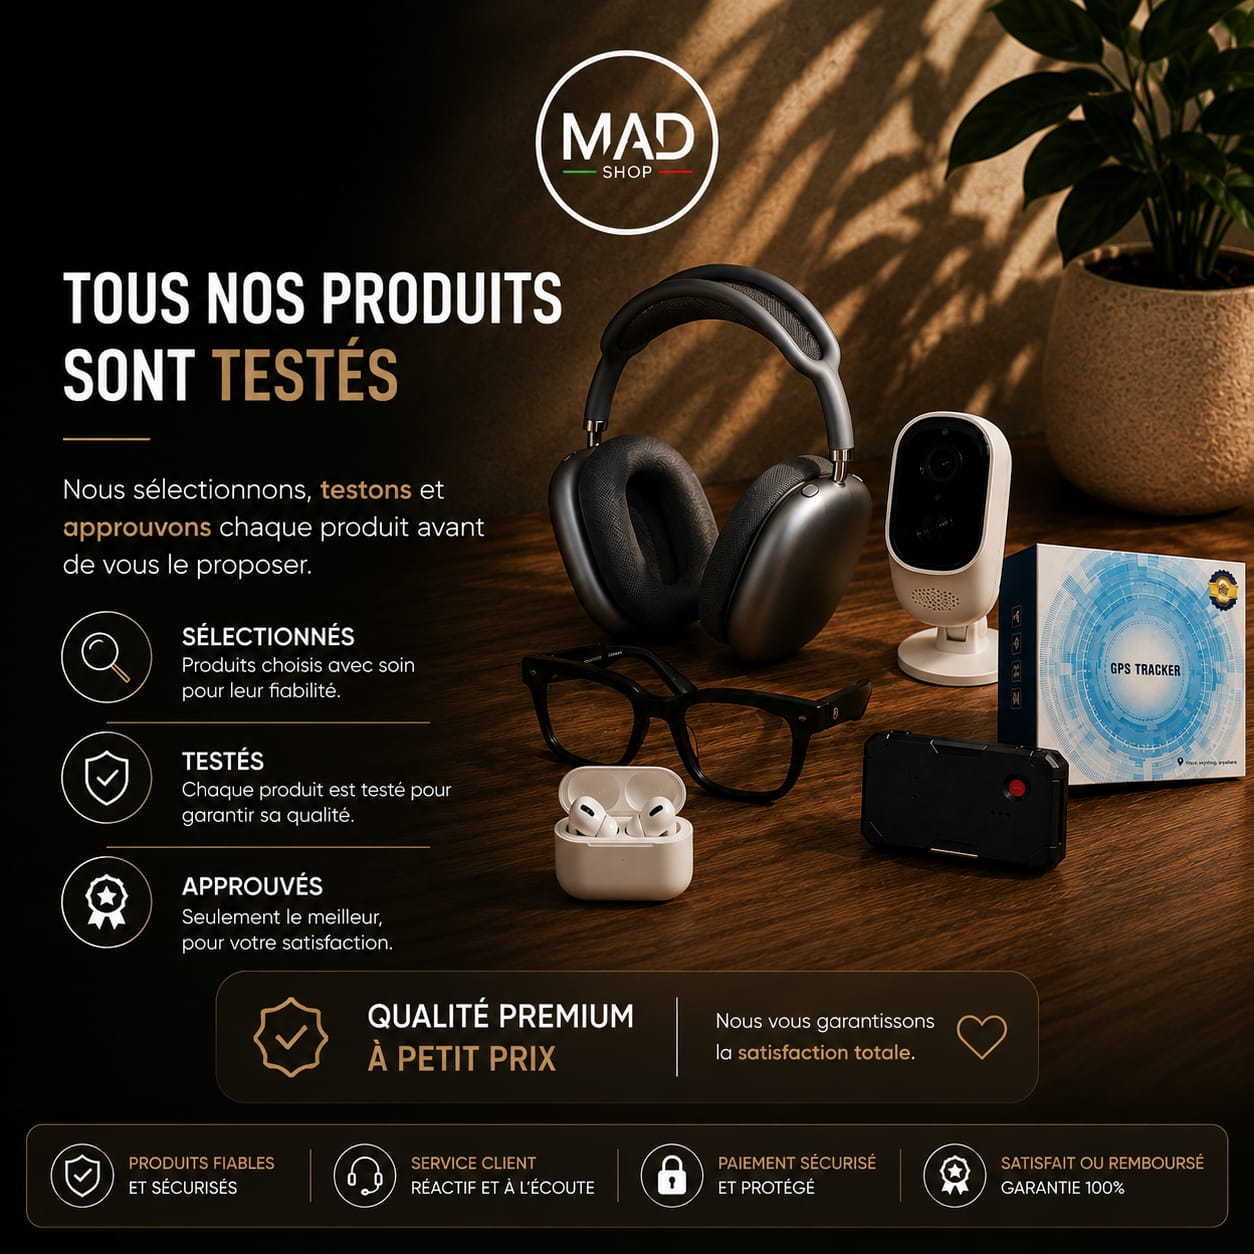
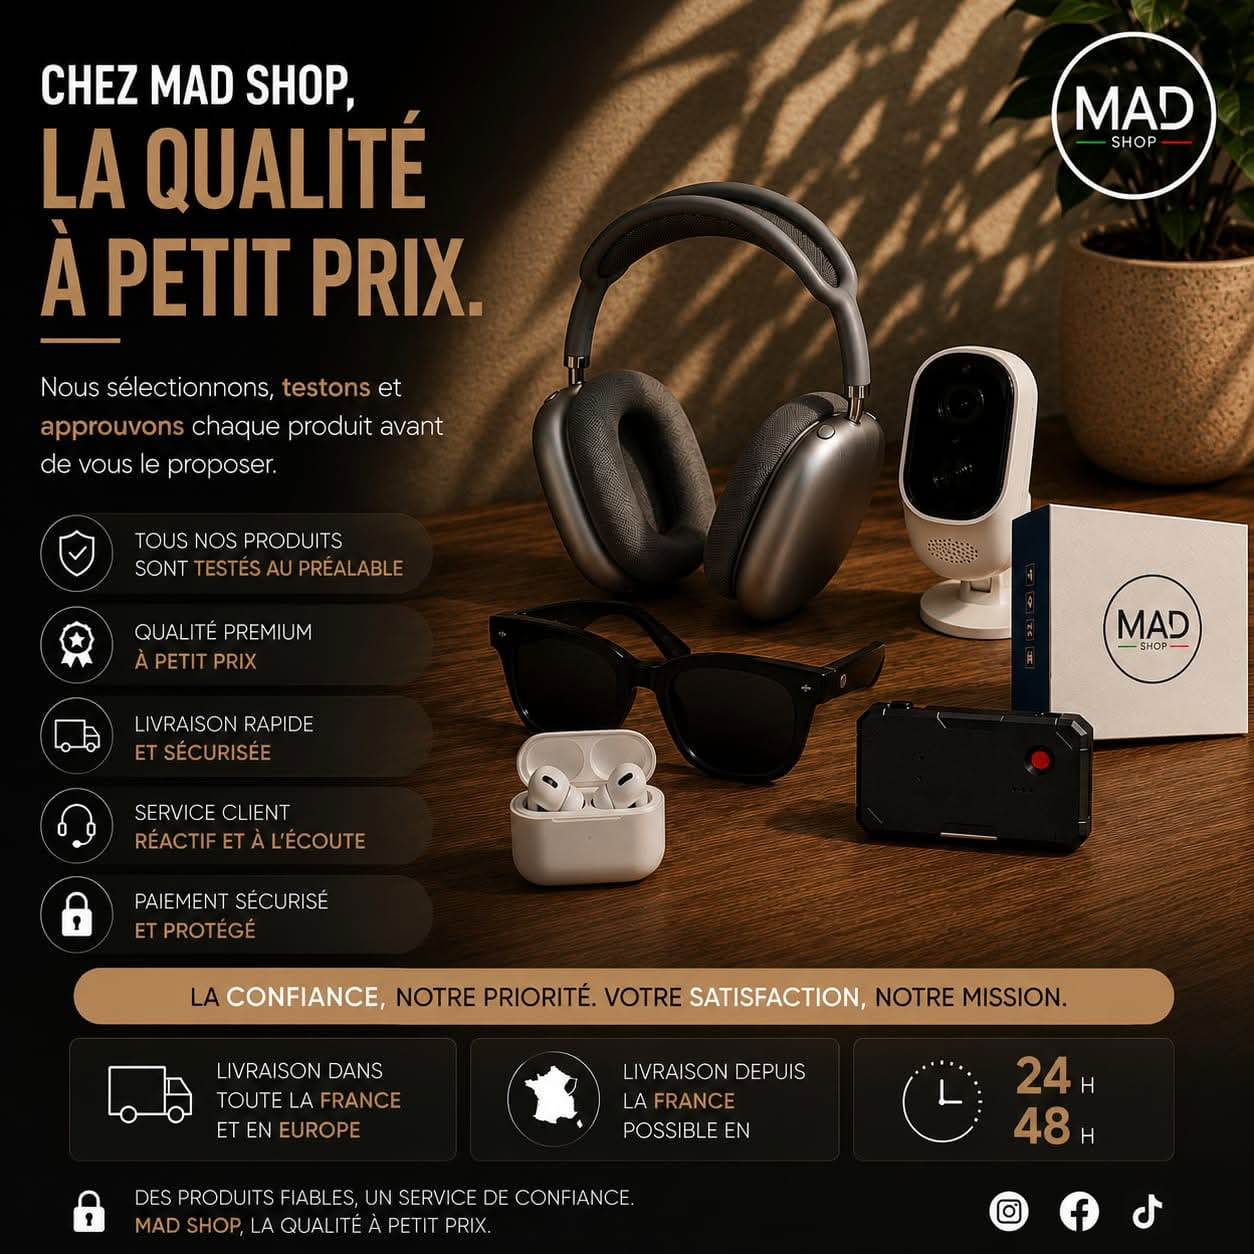
feat(hero&mac): update hero image with acceuil.jpg and fix Mac/Safari compatibility issues (regex, sessionStorage, smooth-scroll)

diff --git a/components/motion/smooth-scroll.tsx b/components/motion/smooth-scroll.tsx
@@ -9,40 +9,47 @@ import Lenis from "lenis";
  */
 export function SmoothScroll() {
   useEffect(() => {
-    if (window.matchMedia("(prefers-reduced-motion: reduce)").matches) return;
+    try {
+      if (typeof window === "undefined") return;
+      const isSafari = /^((?!chrome|android).)*safari/i.test(navigator.userAgent);
+      if (window.matchMedia("(prefers-reduced-motion: reduce)").matches) return;
 
-    const lenis = new Lenis({
-      duration: 1.1,
-      lerp: 0.1,
-      smoothWheel: true,
-      wheelMultiplier: 1,
-      touchMultiplier: 1.6,
-    });
+      const lenis = new Lenis({
+        duration: 1.1,
+        lerp: 0.1,
+        smoothWheel: !isSafari,
+        wheelMultiplier: 1,
+        touchMultiplier: 1.6,
+      });
 
-    let raf = 0;
-    const loop = (time: number) => {
-      lenis.raf(time);
+      let raf = 0;
+      const loop = (time: number) => {
+        lenis.raf(time);
+        raf = requestAnimationFrame(loop);
+      };
       raf = requestAnimationFrame(loop);
-    };
-    raf = requestAnimationFrame(loop);
 
-    // Liens d'ancrage fluides (#avis, etc.)
-    const onAnchorClick = (e: MouseEvent) => {
-      const target = (e.target as HTMLElement).closest('a[href^="#"]');
-      if (!target) return;
-      const id = target.getAttribute("href");
-      if (id && id.length > 1) {
-        e.preventDefault();
-        lenis.scrollTo(id, { offset: -100 });
-      }
-    };
-    document.addEventListener("click", onAnchorClick);
+      const onAnchorClick = (e: MouseEvent) => {
+        const target = (e.target as HTMLElement).closest('a[href^="#"]');
+        if (!target) return;
+        const id = target.getAttribute("href");
+        if (id && id.length > 1) {
+          e.preventDefault();
+          lenis.scrollTo(id, { offset: -100 });
+        }
+      };
+      document.addEventListener("click", onAnchorClick);
 
-    return () => {
-      cancelAnimationFrame(raf);
-      document.removeEventListener("click", onAnchorClick);
-      lenis.destroy();
-    };
+      return () => {
+        cancelAnimationFrame(raf);
+        document.removeEventListener("click", onAnchorClick);
+        try {
+          lenis.destroy();
+        } catch {}
+      };
+    } catch {
+      // Fallback défilement natif
+    }
   }, []);
 
   return null;

diff --git a/components/brand/intro-loader.tsx b/components/brand/intro-loader.tsx
@@ -12,16 +12,22 @@ export function IntroLoader() {
   const [show, setShow] = useState(false);
 
   useEffect(() => {
-    const seen = sessionStorage.getItem("mad-intro");
-    const reduce = window.matchMedia("(prefers-reduced-motion: reduce)").matches;
-    if (seen || reduce) return;
+    try {
+      const seen = sessionStorage.getItem("mad-intro");
+      const reduce = window.matchMedia("(prefers-reduced-motion: reduce)").matches;
+      if (seen || reduce) return;
 
-    setShow(true);
-    const t = setTimeout(() => {
-      setShow(false);
-      sessionStorage.setItem("mad-intro", "1");
-    }, 2300);
-    return () => clearTimeout(t);
+      setShow(true);
+      const t = setTimeout(() => {
+        setShow(false);
+        try {
+          sessionStorage.setItem("mad-intro", "1");
+        } catch {}
+      }, 2300);
+      return () => clearTimeout(t);
+    } catch {
+      // Safari navigation privée ou cookies bloqués
+    }
   }, []);
 
   return (

diff --git a/lib/data/orders.ts b/lib/data/orders.ts
@@ -89,7 +89,7 @@ function normalizeLabel(value: string): string {
     .trim()
     .toLowerCase()
     .normalize("NFD")
-    .replace(/\p{Diacritic}/gu, "");
+    .replace(/[\u0300-\u036f]/g, "");
 }
 
 /* --- Admin --- */
